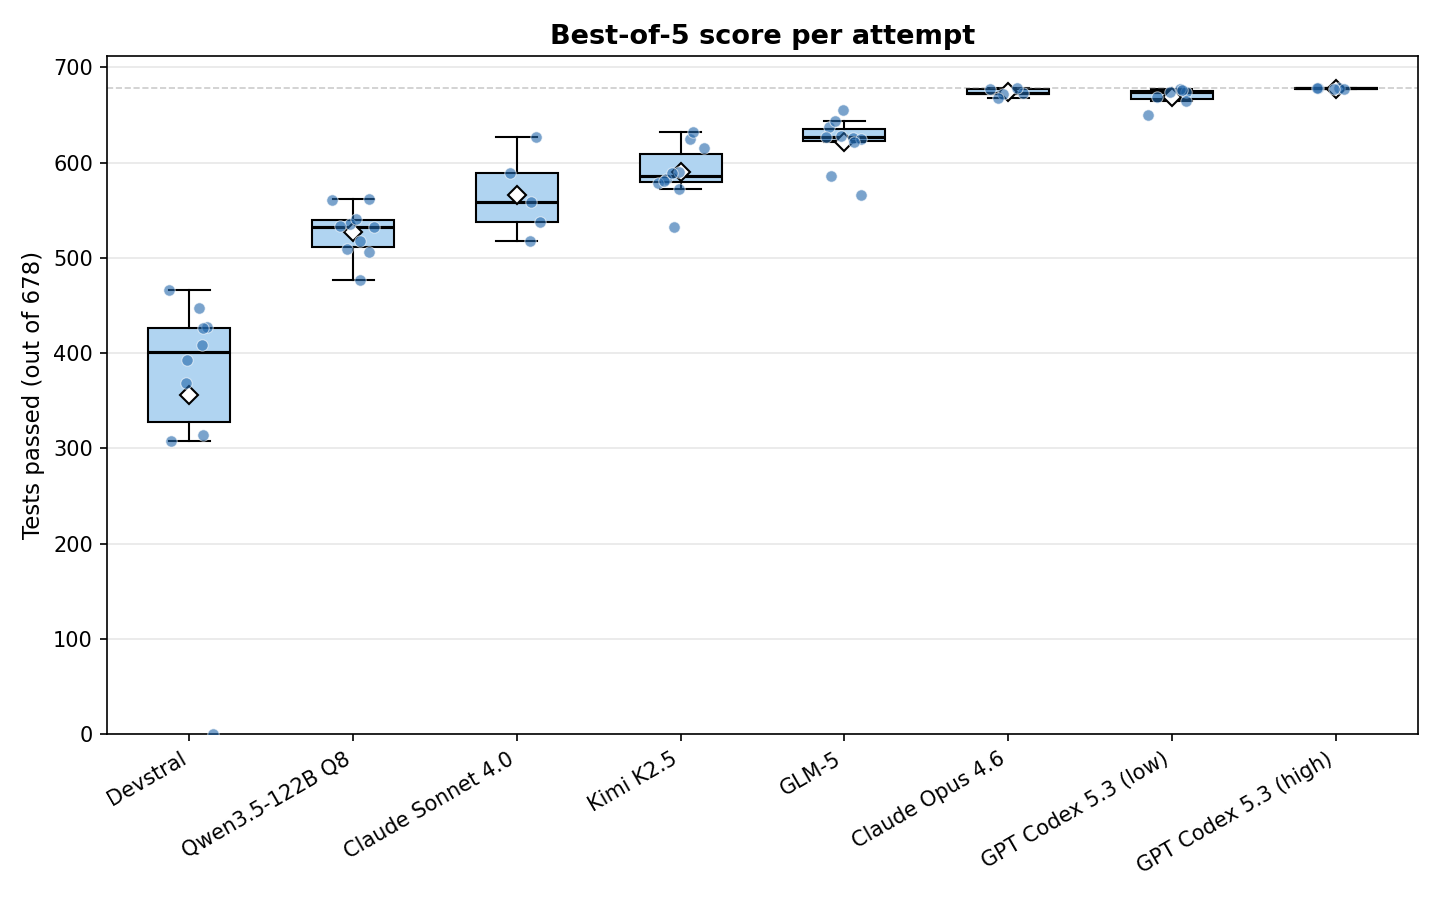
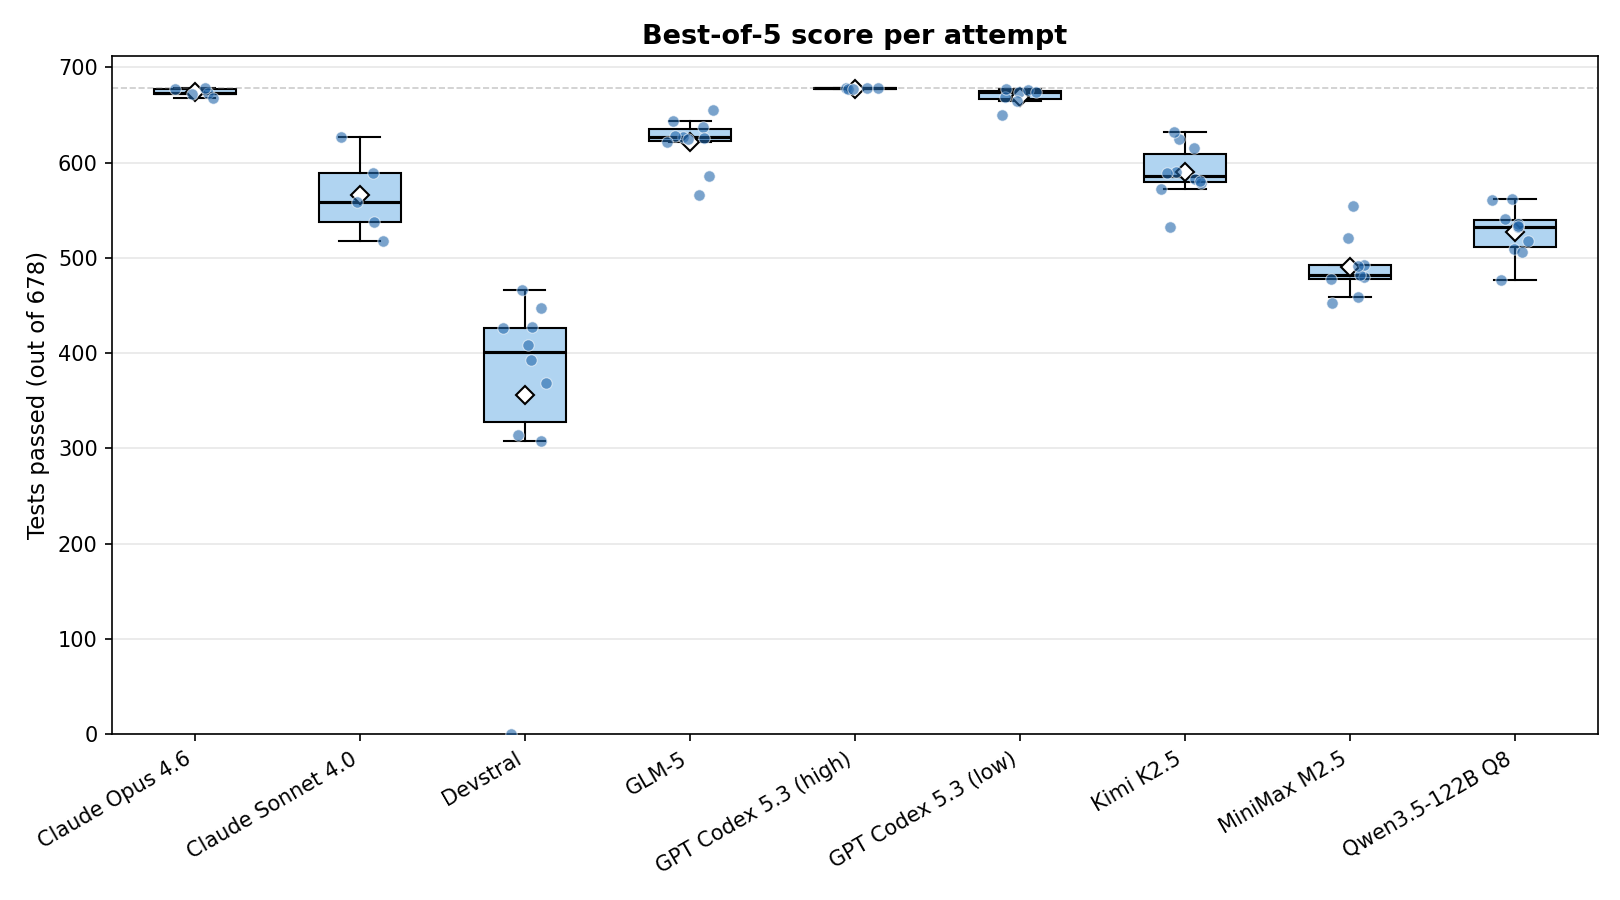
Add MiniMax M2.5 (1.0) and Qwen3.5-122B Q8 (1.1) results
## New results

- MiniMax M2.5 on toml-1.0-cpp: 9 valid attempts out of 10 (attempt
  1 was 0/0 timeout, removed and renumbered). Mean best-of-5 72.27%
  (490.0/678). High variance (393–532 range). Slots between Devstral
  (52.5%) and Qwen3.5-122B Q8 (77.8%) on toml-1.0-cpp.

- Qwen3.5-122B Q8 on toml-1.1-cpp: 9 valid attempts out of 10
  (attempt 2 was 0/0, removed and renumbered). Mean best-of-5 75.26%
  (511.8/680). Local model via llama.cpp. Slots between MiniMax M2.5
  (73.2%) and Kimi K2.5 (88.5%) on toml-1.1-cpp.

## Cross-version comparison (all models with both tasks)

  Model                | 1.0 (678)  | 1.1 (680)  | Delta
  ---------------------|------------|------------|------
  GPT Codex 5.3 (high) | 99.94%    | 99.97%     | +0.0%
  Claude Opus 4.6      | 99.35%    | 99.53%     | +0.2%
  GPT Codex 5.3 (low)  | 98.71%    | 98.28%     | -0.4%
  GLM-5                | 91.68%    | 89.66%     | -2.0%
  Kimi K2.5            | 86.97%    | 88.51%     | +1.5%
  Qwen3.5-122B Q8      | 77.80%    | 75.26%     | -2.5%
  MiniMax M2.5         | 72.27%    | 73.24%     | +1.0%
  Devstral             | 52.49%    | 57.51%     | +5.0%

  Top-3 models are stable across versions (within ±0.5%). Mid-tier
  models show small fluctuations (±2.5%). No model shows a large
  systematic degradation from 1.0 to 1.1.

## Coverage update

  - toml-1.0-cpp: 9 models (all target models covered)
  - toml-1.1-cpp: 8 models (missing Claude Sonnet 4.0 and 4.6)

## Files changed
[…]

diff --git a/results/STATUS.md b/results/STATUS.md
@@ -14,8 +14,8 @@ Target: 10 attempts per model per task.
 | GPT Codex 5.3 (high) | 5/10        | 5/10         |
 | GPT Codex 5.3 (low)  | 7/10        | 3/10         |
 | Kimi K2.5            | 10/10        | 20/10        |
-| MiniMax M2.5         | --           | 9/10         |
-| Qwen3.5-122B Q8      | 10/10        | --           |
+| MiniMax M2.5         | 9/10         | 9/10         |
+| Qwen3.5-122B Q8      | 10/10        | 9/10         |
 
 **Legend:** `N/10` = N attempts completed, `--` = not started
 
